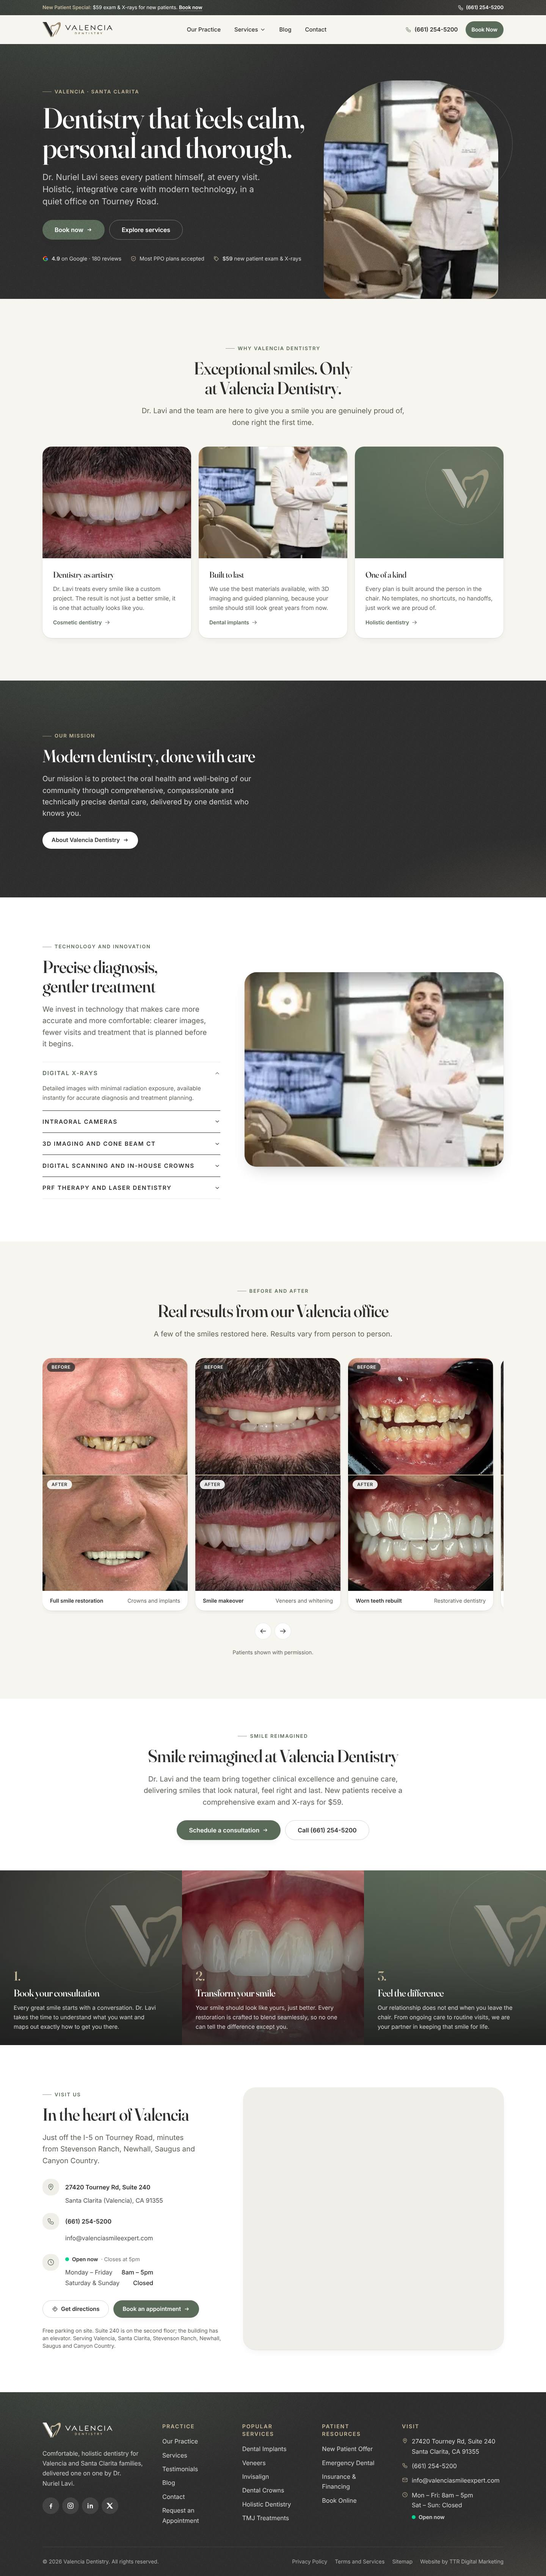
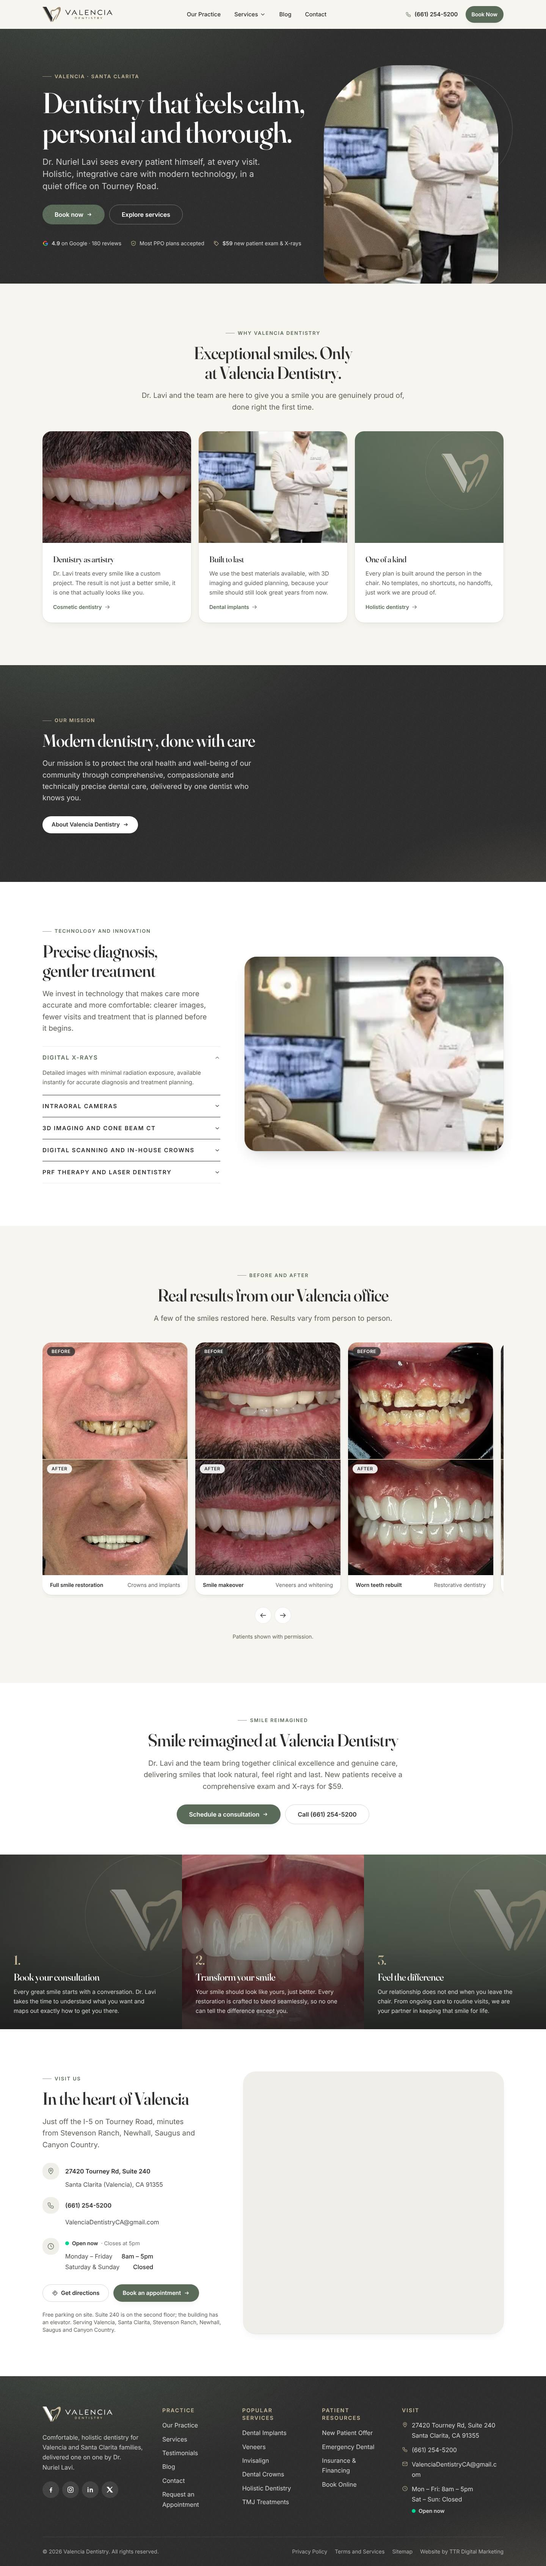
Keep the header Book Now button on one line on phones
Claude-Session: https://claude.ai/code/session_01T2q5z3upfsBPQ3taPvGCH7

diff --git a/components/layout/Logo.tsx b/components/layout/Logo.tsx
@@ -13,12 +13,12 @@ export function Logo({ className, inverted, markOnly }: { className?: string; in
   const bronzeText = inverted ? "#C9BA9C" : "#7A6B52";
   return (
     <span className={cn("inline-flex items-center gap-3", className)}>
-      <svg viewBox={`0 0 ${MARK.width} ${MARK.height}`} className="h-10 w-auto shrink-0" aria-hidden="true" focusable="false">
+      <svg viewBox={`0 0 ${MARK.width} ${MARK.height}`} className="h-8 w-auto shrink-0 sm:h-10" aria-hidden="true" focusable="false">
         <path fill={ink} d={MARK.v} />
         <path fill={bronze} d={MARK.tooth} />
       </svg>
       {!markOnly && (
-        <svg viewBox={`0 0 ${WORD.width} ${WORD.height}`} className="h-[1.55rem] w-auto" role="img" aria-label="Valencia Dentistry">
+        <svg viewBox={`0 0 ${WORD.width} ${WORD.height}`} className="h-[1.25rem] w-auto sm:h-[1.55rem]" role="img" aria-label="Valencia Dentistry">
           <path fill={ink} d={WORD.valencia} />
           <path fill={bronzeText} d={WORD.dentistry} />
         </svg>

diff --git a/components/layout/Header.tsx b/components/layout/Header.tsx
@@ -95,7 +95,7 @@ export function Header({ nav }: { nav: Navigation }) {
               <span className="hidden xl:inline">{site.phone.display}</span>
               <span className="xl:hidden">Call</span>
             </a>
-            <a href={site.bookingUrl} target="_blank" rel="noopener noreferrer" className="btn btn-primary btn-sm">
+            <a href={site.bookingUrl} target="_blank" rel="noopener noreferrer" className="btn btn-primary btn-sm whitespace-nowrap px-3.5 sm:px-4">
               Book Now
             </a>
             <button type="button" className="inline-flex h-11 w-11 items-center justify-center rounded-full text-ink-900 hover:bg-ink-900/5 lg:hidden" aria-expanded={mobileOpen} aria-controls="mobile-menu" aria-label={mobileOpen ? "Close menu" : "Open menu"} onClick={() => setMobileOpen((v) => !v)}>
